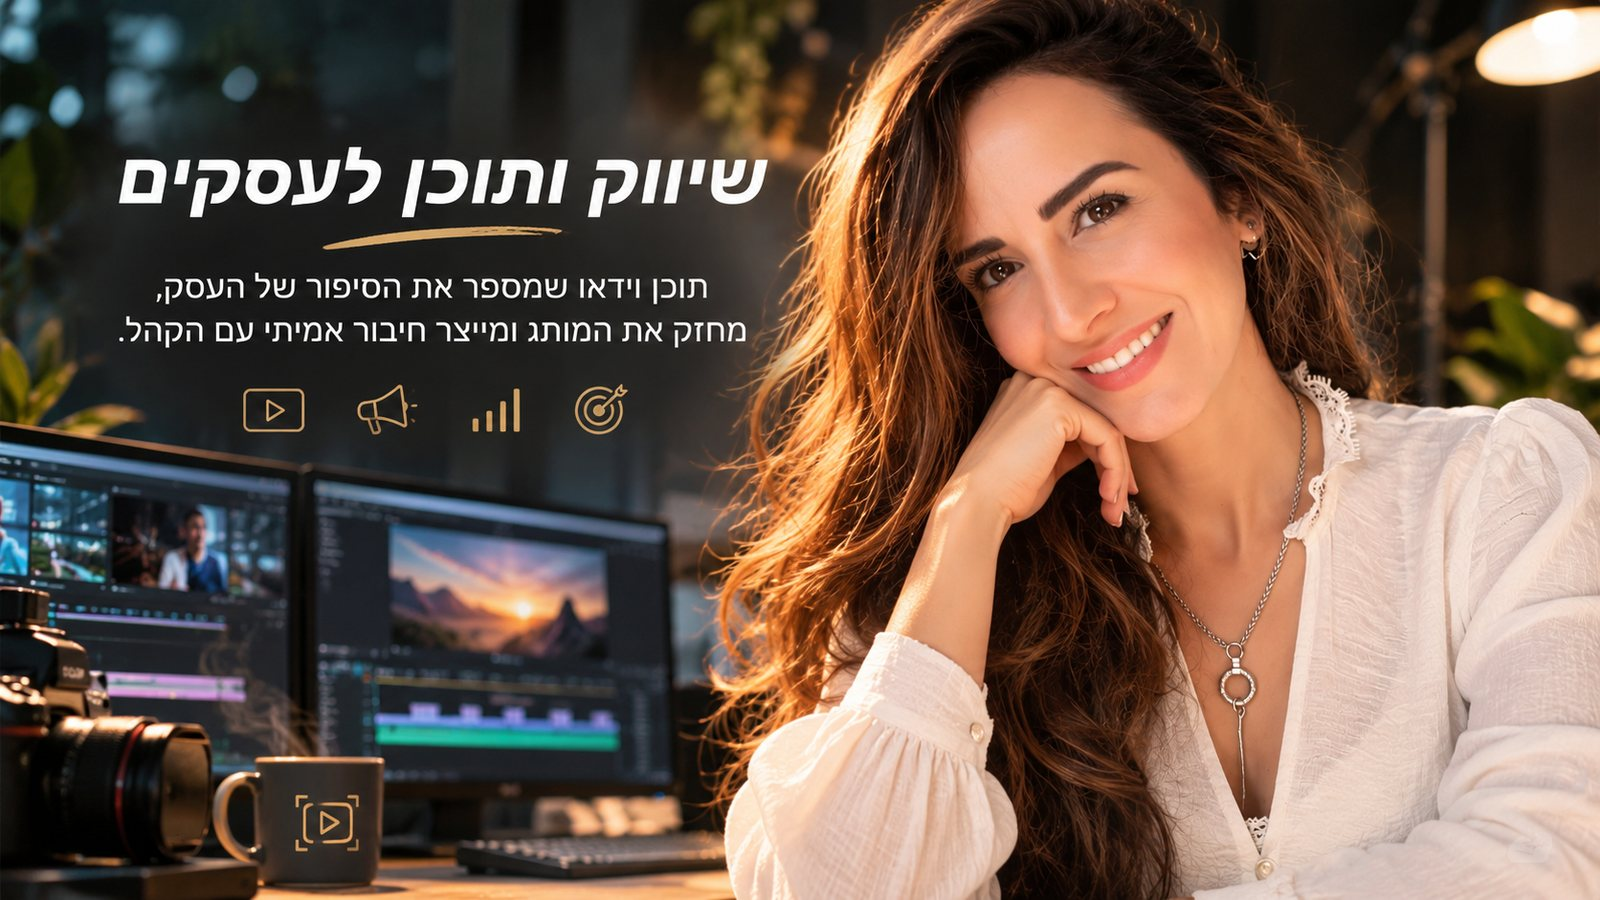
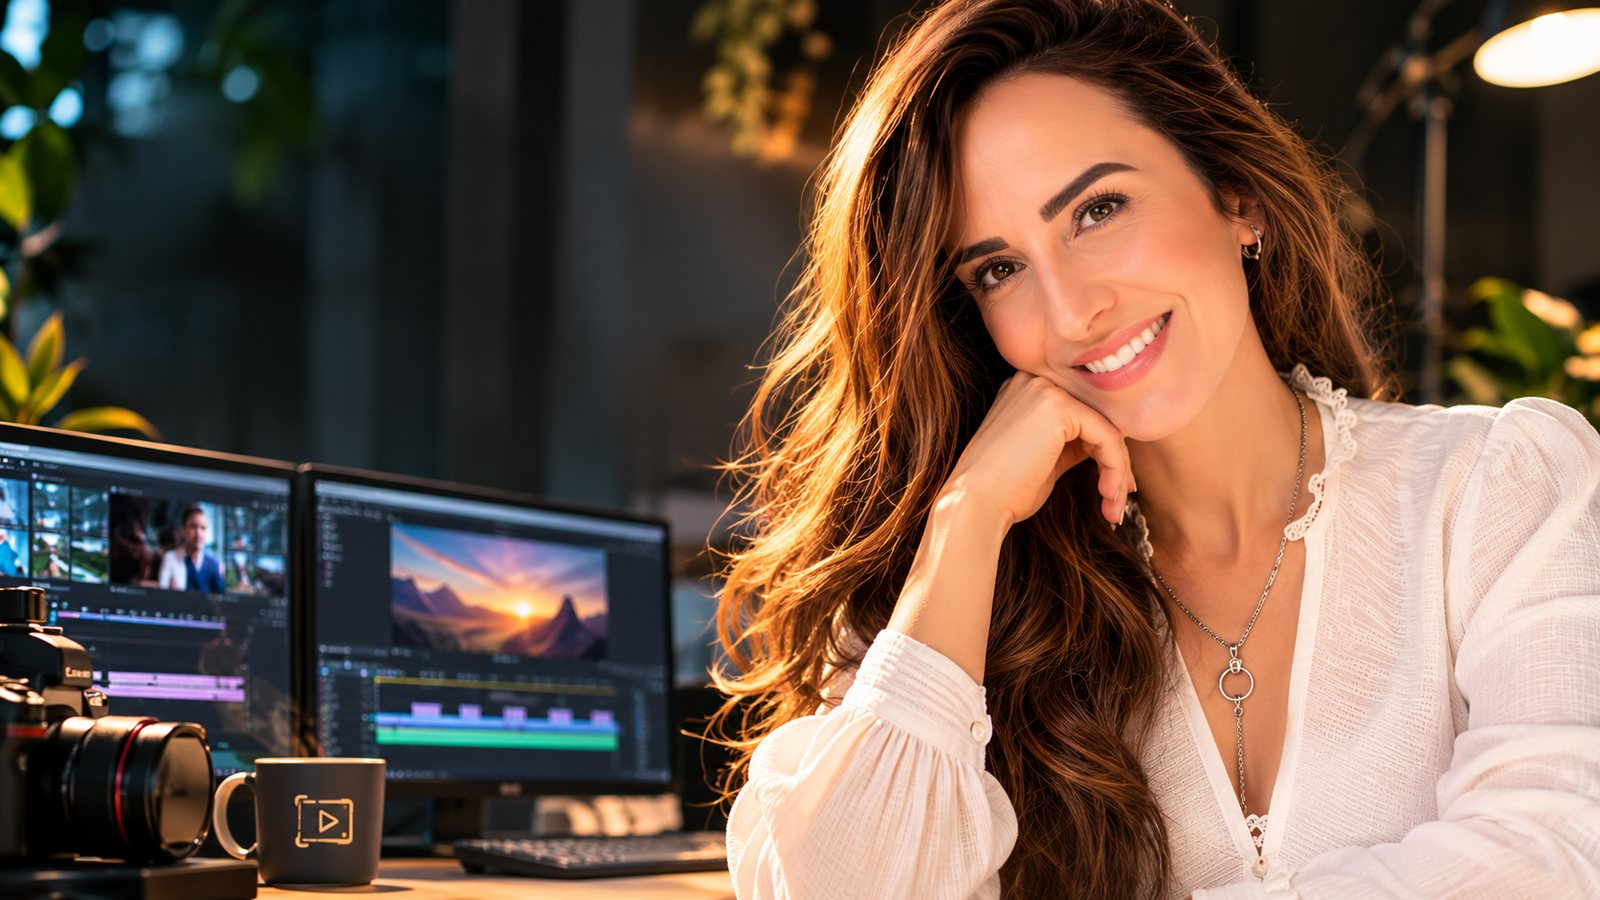
Business image without text
Claude-Session: https://claude.ai/code/session_014WxyQTVyVYDg3UgywMTVDy

diff --git a/index.html b/index.html
@@ -298,7 +298,7 @@ form{padding:24px}
 </div>
 </div>
 <div class="row">
-<div class="img"><img src="img/business.jpg" alt="נירית אלקובי בסטודיו העריכה, לצד הכיתוב: שיווק ותוכן לעסקים. תוכן וידאו שמספר את הסיפור של העסק, מחזק את המותג ומייצר חיבור אמיתי עם הקהל." loading="lazy" style="aspect-ratio:16/9"></div>
+<div class="img"><img src="img/business.jpg" alt="נירית אלקובי בסטודיו העריכה, ליד מסכי עריכת וידאו ומצלמה" loading="lazy"></div>
 <div class="txt stack">
 <h3>שיווק ותוכן לעסקים</h3>
 <p>סרטוני וידאו שמספרים את הסיפור של העסק, מחזקים את המותג ומייצרים תוכן לפרסום ולרשתות החברתיות.</p>
